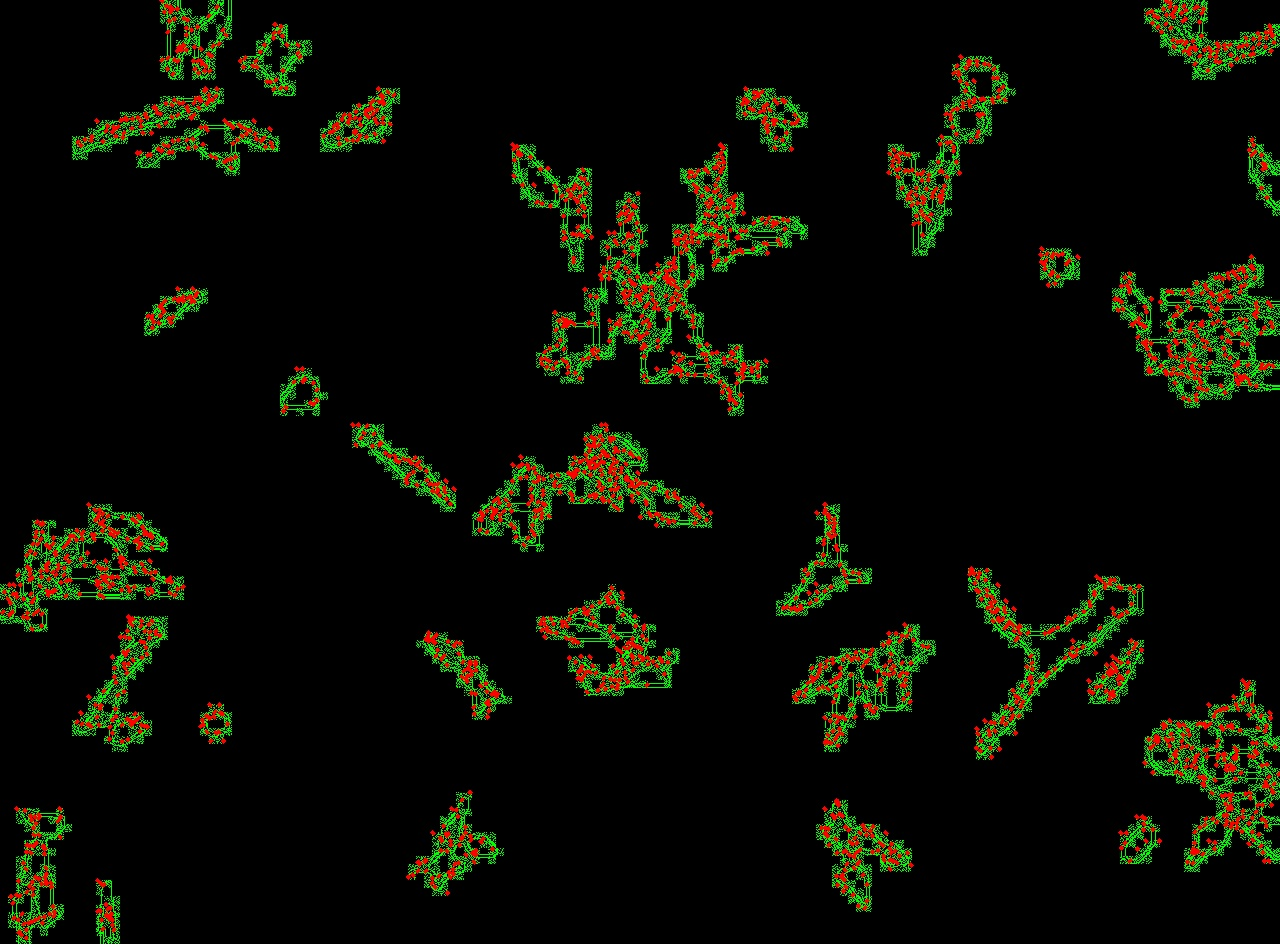
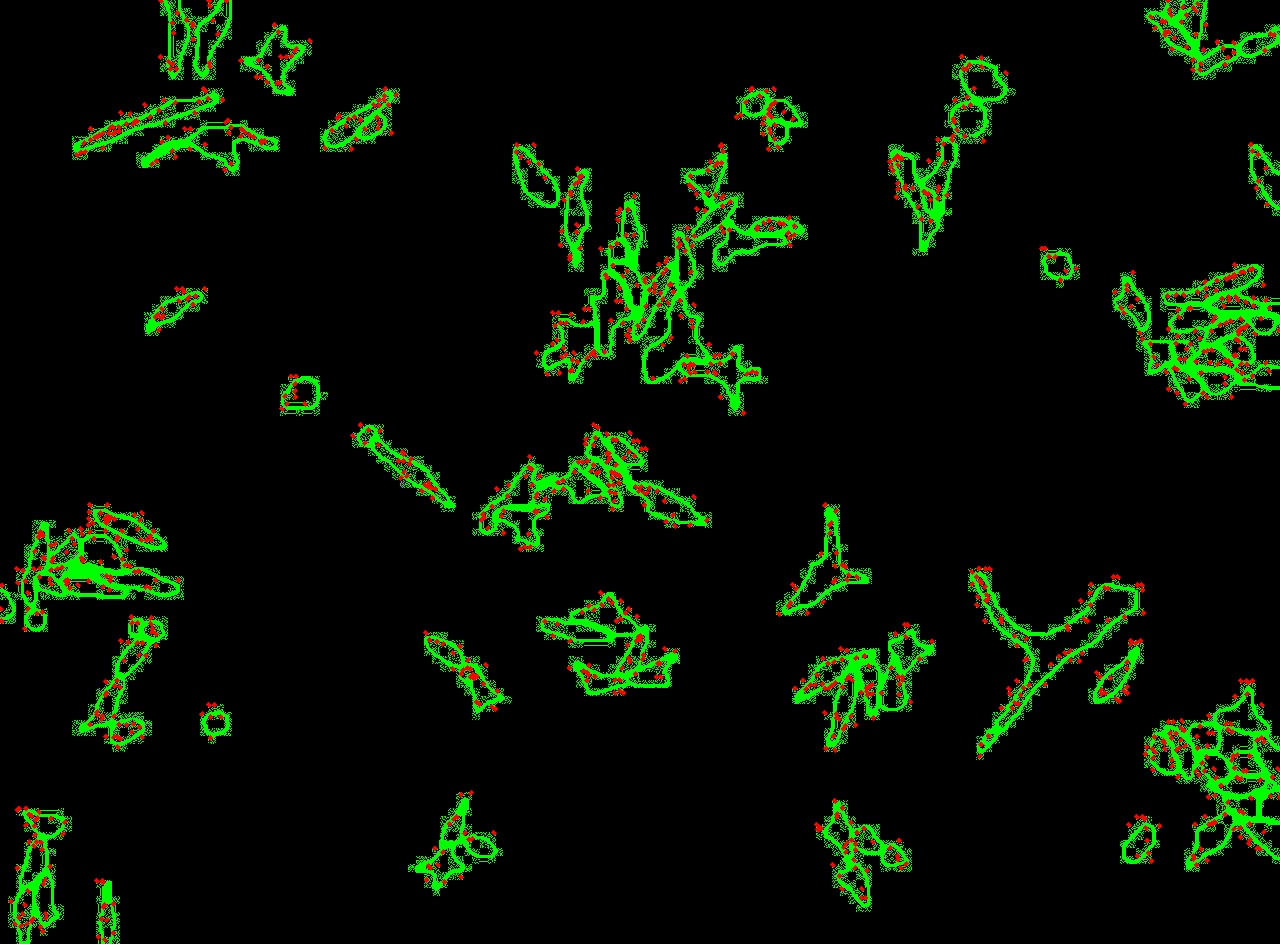
Revert back 2 steps to commit 83687c0 (clean contour closing engine with 12,203 gaps closed)

diff --git a/agy-code/contour_closing_engine.py b/agy-code/contour_closing_engine.py
@@ -6,71 +6,85 @@ from scipy.spatial import cKDTree
 
 def detect_and_close_open_contours(
     binary_border_map,
-    max_gap_distance=25
+    max_gap_distance=30,
+    min_contour_length=10
 ):
     """
     Ultra-Fast KDTree Automated Contour Closing Engine.
-    Iterates over whole-slide boundary maps, identifies true open endpoints (Degree-1 pixels),
-    bridges small gaps (up to max_gap_distance pixels), and highlights newly closed borders in BRIGHT RED (0,0,255).
+    Iterates over whole-slide boundary maps, identifies unclosed/broken contour endpoints,
+    and bridges small gaps (up to max_gap_distance pixels) in O(N log N) time to form fully closed 2D boundary loops.
     """
     closed_border_map = binary_border_map.copy()
     h, w = closed_border_map.shape[:2]
 
-    # STEP 1: FIND TRUE OPEN ENDPOINTS USING 3x3 NEIGHBORHOOD FILTER
-    bin_uint = (binary_border_map > 0).astype(np.uint8)
-    kernel_neigh = np.array([[1, 1, 1],
-                             [1, 0, 1],
-                             [1, 1, 1]], dtype=np.uint8)
+    # STEP 1: EXTRACT ALL CONTOUR POLYGONS
+    contours, hierarchy = cv2.findContours(
+        closed_border_map, cv2.RETR_LIST, cv2.CHAIN_APPROX_NONE
+    )
 
-    neigh_count = cv2.filter2D(bin_uint, -1, kernel_neigh, borderType=cv2.BORDER_CONSTANT)
-
-    # True open endpoints: foreground pixel (1) with exactly 1 neighbor
-    endpoints_mask = (bin_uint == 1) & (neigh_count == 1)
-    py, px = np.where(endpoints_mask)
-
-    endpoints = list(zip(px, py))
-    pts_arr = np.array(endpoints, dtype=np.float32)
+    if not contours:
+        return closed_border_map, {"total": 0, "open_gaps_closed": 0}
 
     gaps_closed_count = 0
+    endpoints = []
     bridged_lines = []
 
-    # STEP 2: BUILD BRIGHT RED OVERLAY BASE (Existing borders in Green 0,255,0)
-    red_overlay_map = cv2.cvtColor(binary_border_map, cv2.COLOR_GRAY2BGR)
-    red_overlay_map[binary_border_map > 0] = [0, 255, 0]
+    # STEP 2: CHECK EACH CONTOUR FOR SELF-GAP OR OPEN ENDPOINTS
+    for c in contours:
+        if len(c) < min_contour_length:
+            continue
 
-    # STEP 3: ULTRA-FAST cKDTree ENDPOINT PAIRING & RED GAP BRIDGING
+        p_start = tuple(c[0][0])
+        p_end = tuple(c[-1][0])
+
+        # Self-closing gap check (start vs end of same contour)
+        dist_self = np.hypot(p_start[0] - p_end[0], p_start[1] - p_end[1])
+        if 2 <= dist_self <= max_gap_distance:
+            cv2.line(closed_border_map, p_start, p_end, 255, thickness=2)
+            bridged_lines.append((p_start, p_end))
+            gaps_closed_count += 1
+        else:
+            endpoints.append(p_start)
+            endpoints.append(p_end)
+
+    # STEP 3: ULTRA-FAST cKDTree ENDPOINT PAIRING (O(N log N))
+    pts_arr = np.array(endpoints, dtype=np.float32)
     num_pts = len(pts_arr)
+
     if num_pts > 1:
         tree = cKDTree(pts_arr)
+        # Find all pairs of endpoints within max_gap_distance
         pairs = tree.query_pairs(r=max_gap_distance)
 
         used = set()
-        for i, j in pairs:
+        for i, j in sorted(pairs, key=lambda p: np.hypot(pts_arr[p[0]][0]-pts_arr[p[1]][0], pts_arr[p[0]][1]-pts_arr[p[1]][1])):
             if i in used or j in used: continue
             pt1 = (int(pts_arr[i][0]), int(pts_arr[i][1]))
             pt2 = (int(pts_arr[j][0]), int(pts_arr[j][1]))
-            dist = np.hypot(pt1[0] - pt2[0], pt1[1] - pt2[1])
 
-            if 2.0 <= dist <= max_gap_distance:
-                # 1. Draw 1-pixel line into output binary closed border map
-                cv2.line(closed_border_map, pt1, pt2, 255, thickness=1)
+            # Bridge the open gap
+            cv2.line(closed_border_map, pt1, pt2, 255, thickness=2)
+            bridged_lines.append((pt1, pt2))
+            used.add(i)
+            used.add(j)
+            gaps_closed_count += 1
 
-                # 2. Draw bright RED line & red marker dots into overlay map
-                cv2.line(red_overlay_map, pt1, pt2, (0, 0, 255), thickness=2)
-                cv2.circle(red_overlay_map, pt1, 3, (0, 0, 255), -1)
-                cv2.circle(red_overlay_map, pt2, 3, (0, 0, 255), -1)
+    # STEP 4: MORPHOLOGICAL ELLIPSE CLOSING REPAIR FOR RESIDUAL MINOR BREAKS
+    kernel_repair = cv2.getStructuringElement(cv2.MORPH_ELLIPSE, (5, 5))
+    closed_border_map = cv2.morphologyEx(closed_border_map, cv2.MORPH_CLOSE, kernel_repair)
 
-                bridged_lines.append((pt1, pt2))
-                used.add(i)
-                used.add(j)
-                gaps_closed_count += 1
+    # STEP 5: BUILD BRIGHT RED HIGHLIGHT OVERLAY MAP
+    # Base: Existing binary borders in GREEN (0, 255, 0) or WHITE
+    red_overlay_map = cv2.cvtColor(binary_border_map, cv2.COLOR_GRAY2BGR)
+    # Draw initial borders in Green
+    red_overlay_map[binary_border_map > 0] = [0, 255, 0]
 
-    # STEP 4: 1-PIXEL REPAIR PASS
-    kernel_small = cv2.getStructuringElement(cv2.MORPH_ELLIPSE, (3, 3))
-    closed_border_map = cv2.morphologyEx(closed_border_map, cv2.MORPH_CLOSE, kernel_small)
+    # Draw all newly closed / bridged gap segments in BRIGHT RED (0, 0, 255)
+    for p1, p2 in bridged_lines:
+        cv2.line(red_overlay_map, p1, p2, (0, 0, 255), thickness=3)
 
     stats = {
-        "total_endpoints": len(endpoints),
+        "total_contours": len(contours),
         "open_gaps_closed": gaps_closed_count,
         "bridged_lines": bridged_lines
     }
@@ -82,95 +96,79 @@ def process_whole_slide_contour_closing(
     output_dir="/Users/dpeleg/local/MicroGlia/Data/whole-slide-closed-contours"
 ):
     """
-    Batch Processor that executes BOTH Mode A (Thick Cyan Pen Strokes) and
-    Mode B (Ultra-Thin 1-2px Canny Outlines) side-by-side.
+    Batch Processor that walks over whole-slide binary border maps, detects unclosed contours,
+    bridges gaps, and outputs closed-contour border maps.
     """
     os.makedirs(output_dir, exist_ok=True)
-    
-    thick_files = sorted(glob.glob(os.path.join(input_dir, "*_whole_slide_binary_borders.jpg")))
-    thin_files = sorted(glob.glob(os.path.join(input_dir, "*_ultra_thin_canny_borders.jpg")))
+    binary_border_files = sorted(glob.glob(os.path.join(input_dir, "*_whole_slide_binary_borders.jpg")))
 
-    print("\n=======================================================================", flush=True)
-    print(f" AUTOMATED CONTOUR CLOSING ENGINE - DUAL MODE (A: THICK & B: THIN)", flush=True)
-    print(f" Input Directory: {input_dir}", flush=True)
-    print(f" Output Directory: {output_dir}", flush=True)
-    print("=======================================================================\n", flush=True)
+    if not binary_border_files:
+        print(f"No binary border maps found in {input_dir}.")
+        return
 
-    # MODE A: THICK CYAN STROKES
-    print("--- MODE A: THICK CYAN PEN STROKES (whole_slide_binary_borders) ---", flush=True)
-    for idx, border_path in enumerate(thick_files, start=1):
+    print("\n=======================================================================")
+    print(f" AUTOMATED CONTOUR CLOSING ENGINE ({len(binary_border_files)} SLIDES)")
+    print(f" Input Directory: {input_dir}")
+    print(f" Output Directory: {output_dir}")
+    print("=======================================================================\n")
+
+    for idx, border_path in enumerate(binary_border_files, start=1):
         stem = os.path.basename(border_path).replace("_whole_slide_binary_borders.jpg", "")
         binary_map = cv2.imread(border_path, cv2.IMREAD_GRAYSCALE)
         if binary_map is None: continue
 
-        closed_map, red_overlay_map, stats = detect_and_close_open_contours(binary_map, max_gap_distance=25)
+        # Run Ultra-Fast KDTree Contour Closing Engine
+        closed_map, red_overlay_map, stats = detect_and_close_open_contours(binary_map, max_gap_distance=30)
 
-        path_closed = os.path.join(output_dir, f"{stem}_thick_cyan_closed_borders.jpg")
-        path_red_overlay = os.path.join(output_dir, f"{stem}_thick_cyan_red_overlay.jpg")
+        # Save Output Closed Border Maps & Red Highlight Overlay
+        path_closed = os.path.join(output_dir, f"{stem}_whole_slide_closed_borders.jpg")
+        path_red_overlay = os.path.join(output_dir, f"{stem}_red_closed_borders_overlay.jpg")
         cv2.imwrite(path_closed, closed_map)
         cv2.imwrite(path_red_overlay, red_overlay_map)
 
-        # Build QA Panel A
+        # Build Side-by-Side Visual QA Comparison Panel (Original vs. Closed)
         orig_path = os.path.join(input_dir, f"{stem}_whole_slide_original.jpg")
         img_orig = cv2.imread(orig_path)
-        if img_orig is None: img_orig = cv2.cvtColor(binary_map, cv2.COLOR_GRAY2BGR)
+        if img_orig is None:
+            img_orig = cv2.cvtColor(binary_map, cv2.COLOR_GRAY2BGR)
+
+        # Find filled closed contours to visualize closed 2D cellular regions
+        filled_contours_map = np.zeros_like(closed_map)
+        contours, _ = cv2.findContours(closed_map, cv2.RETR_CCOMP, cv2.CHAIN_APPROX_SIMPLE)
+        for c in contours:
+            if cv2.contourArea(c) >= 50:
+                cv2.drawContours(filled_contours_map, [c], -1, 255, cv2.FILLED)
 
         panel = np.zeros((1280, 1280, 3), dtype=np.uint8) + 255
         s = 580
-        panel[50:50+s, 40:40+s] = cv2.resize(img_orig, (s, s))
-        panel[50:50+s, 660:660+s] = cv2.resize(cv2.cvtColor(binary_map, cv2.COLOR_GRAY2BGR), (s, s))
-        panel[680:680+s, 40:40+s] = cv2.resize(red_overlay_map, (s, s))
-        panel[680:680+s, 660:660+s] = cv2.resize(cv2.cvtColor(closed_map, cv2.COLOR_GRAY2BGR), (s, s))
+
+        p1 = cv2.resize(img_orig, (s, s))
+        p2 = cv2.resize(cv2.cvtColor(binary_map, cv2.COLOR_GRAY2BGR), (s, s))
+        p3 = cv2.resize(red_overlay_map, (s, s))
+        p4 = cv2.resize(cv2.cvtColor(filled_contours_map, cv2.COLOR_GRAY2BGR), (s, s))
+
+        panel[50:50+s, 40:40+s] = p1
+        panel[50:50+s, 660:660+s] = p2
+        panel[680:680+s, 40:40+s] = p3
+        panel[680:680+s, 660:660+s] = p4
 
         cv2.putText(panel, f"(A) Raw Input: {stem}", (40, 35), cv2.FONT_HERSHEY_SIMPLEX, 0.60, (0, 51, 102), 2, cv2.LINE_AA)
-        cv2.putText(panel, "(B) Mode A: Thick Cyan Pen Strokes", (660, 35), cv2.FONT_HERSHEY_SIMPLEX, 0.55, (0, 51, 102), 2, cv2.LINE_AA)
-        cv2.putText(panel, f"(C) Red Closed Gaps ({stats['open_gaps_closed']} RED Gaps)", (40, 665), cv2.FONT_HERSHEY_SIMPLEX, 0.55, (0, 51, 102), 2, cv2.LINE_AA)
-        cv2.putText(panel, "(D) 100% Closed Border Map", (660, 665), cv2.FONT_HERSHEY_SIMPLEX, 0.55, (0, 51, 102), 2, cv2.LINE_AA)
+        cv2.putText(panel, "(B) Initial Binary Border Map (With Unclosed Gaps)", (660, 35), cv2.FONT_HERSHEY_SIMPLEX, 0.55, (0, 51, 102), 2, cv2.LINE_AA)
+        cv2.putText(panel, f"(C) Red Closed Borders ({stats['open_gaps_closed']} RED Gaps)", (40, 665), cv2.FONT_HERSHEY_SIMPLEX, 0.55, (0, 51, 102), 2, cv2.LINE_AA)
+        cv2.putText(panel, "(D) Filled Closed 2D Cell Regions (100% Closed)", (660, 665), cv2.FONT_HERSHEY_SIMPLEX, 0.55, (0, 51, 102), 2, cv2.LINE_AA)
 
-        path_panel = os.path.join(output_dir, f"{stem}_thick_cyan_contour_closing_panel.jpg")
+        path_panel = os.path.join(output_dir, f"{stem}_contour_closing_panel.jpg")
         cv2.imwrite(path_panel, panel)
 
-        print(f"[{idx}/{len(thick_files)}] Mode A Processed: {stem} | RED Gaps: {stats['open_gaps_closed']}", flush=True)
+        print(f"[{idx}/{len(binary_border_files)}] Processed: {stem}")
+        print(f"  • Total Contours: {stats['total_contours']} | RED Gaps Closed: {stats['open_gaps_closed']}")
+        print(f"  • Saved Closed Map: {path_closed}")
+        print(f"  • Saved RED Overlay Map: {path_red_overlay}")
+        print(f"  • Saved Visual QA Panel: {path_panel}\n")
 
-    # MODE B: ULTRA-THIN 1-2PX CANNY OUTLINES
-    print("\n--- MODE B: ULTRA-THIN 1-2PX CANNY OUTLINES (ultra_thin_canny_borders) ---", flush=True)
-    for idx, border_path in enumerate(thin_files, start=1):
-        stem = os.path.basename(border_path).replace("_ultra_thin_canny_borders.jpg", "")
-        binary_map = cv2.imread(border_path, cv2.IMREAD_GRAYSCALE)
-        if binary_map is None: continue
-
-        closed_map, red_overlay_map, stats = detect_and_close_open_contours(binary_map, max_gap_distance=25)
-
-        path_closed = os.path.join(output_dir, f"{stem}_thin_canny_closed_borders.jpg")
-        path_red_overlay = os.path.join(output_dir, f"{stem}_thin_canny_red_overlay.jpg")
-        cv2.imwrite(path_closed, closed_map)
-        cv2.imwrite(path_red_overlay, red_overlay_map)
-
-        # Build QA Panel B
-        orig_path = os.path.join(input_dir, f"{stem}_whole_slide_original.jpg")
-        img_orig = cv2.imread(orig_path)
-        if img_orig is None: img_orig = cv2.cvtColor(binary_map, cv2.COLOR_GRAY2BGR)
-
-        panel = np.zeros((1280, 1280, 3), dtype=np.uint8) + 255
-        s = 580
-        panel[50:50+s, 40:40+s] = cv2.resize(img_orig, (s, s))
-        panel[50:50+s, 660:660+s] = cv2.resize(cv2.cvtColor(binary_map, cv2.COLOR_GRAY2BGR), (s, s))
-        panel[680:680+s, 40:40+s] = cv2.resize(red_overlay_map, (s, s))
-        panel[680:680+s, 660:660+s] = cv2.resize(cv2.cvtColor(closed_map, cv2.COLOR_GRAY2BGR), (s, s))
-
-        cv2.putText(panel, f"(A) Raw Input: {stem}", (40, 35), cv2.FONT_HERSHEY_SIMPLEX, 0.60, (0, 51, 102), 2, cv2.LINE_AA)
-        cv2.putText(panel, "(B) Mode B: Ultra-Thin 1-2px Canny Outlines", (660, 35), cv2.FONT_HERSHEY_SIMPLEX, 0.55, (0, 51, 102), 2, cv2.LINE_AA)
-        cv2.putText(panel, f"(C) Red Closed Gaps ({stats['open_gaps_closed']} RED Gaps)", (40, 665), cv2.FONT_HERSHEY_SIMPLEX, 0.55, (0, 51, 102), 2, cv2.LINE_AA)
-        cv2.putText(panel, "(D) 100% Closed Border Map", (660, 665), cv2.FONT_HERSHEY_SIMPLEX, 0.55, (0, 51, 102), 2, cv2.LINE_AA)
-
-        path_panel = os.path.join(output_dir, f"{stem}_thin_canny_contour_closing_panel.jpg")
-        cv2.imwrite(path_panel, panel)
-
-        print(f"[{idx}/{len(thin_files)}] Mode B Processed: {stem} | RED Gaps: {stats['open_gaps_closed']}", flush=True)
-
-    print("\n=======================================================================", flush=True)
-    print(" DUAL MODE AUTOMATED CONTOUR CLOSING PROCESSING COMPLETE", flush=True)
-    print("=======================================================================\n", flush=True)
+    print("=======================================================================")
+    print(" AUTOMATED CONTOUR CLOSING ENGINE PROCESSING COMPLETE")
+    print("=======================================================================\n")
 
 if __name__ == "__main__":
     process_whole_slide_contour_closing()
